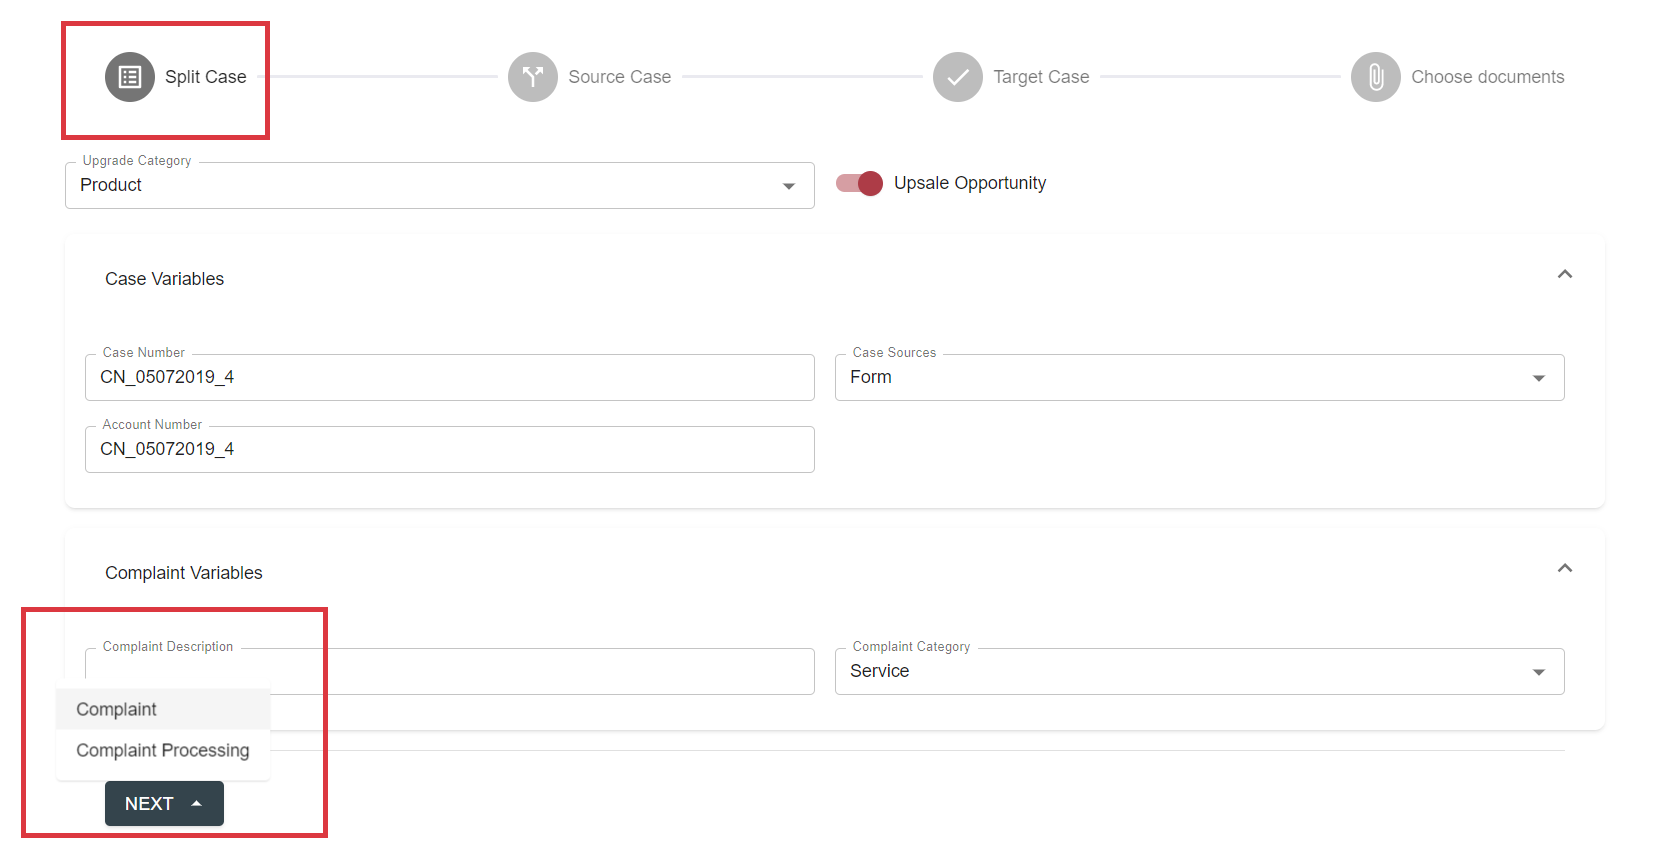
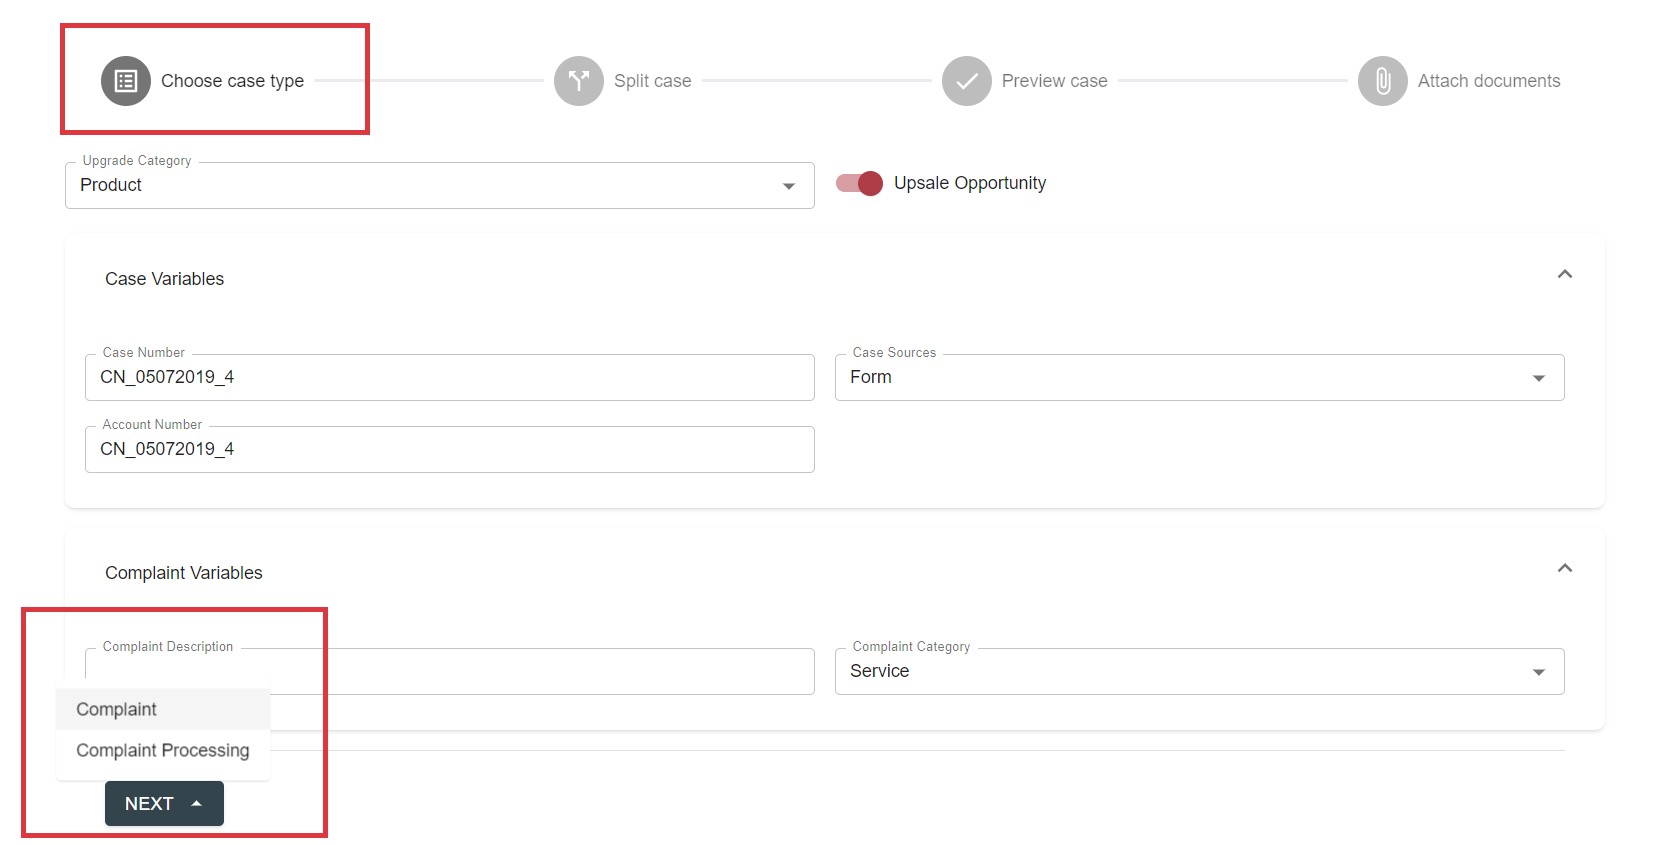
U7-3305 Split Case Feature documentation.

diff --git a/_docs/unity/features/case-management/split-case.md b/_docs/unity/features/case-management/split-case.md
@@ -6,7 +6,7 @@ category: Unity 7
 
 # Description
 
-Split Case is a feature to create a case that reuses data from an existing case. The new case can be the same type as the original case or it can be a different case type.
+Split Case is a feature to create a case that reuses data from an existing case. The new case can be the same type as the original case, or it can be a different case type.
 
 Unity supports IBM Case Manager Split Case feature via Unity ICM over UCM Data Provider.
 
@@ -18,18 +18,18 @@ Split Case feature in React UI is implemented as a grid action available for Cas
 
 Once selected, the action will be executed as a wizard with several steps:
 
-- The first step is a Split Case where selected case is opened for a preview. 
+- The first step is Choose Case Type form where selected case is opened for a preview. 
 If more than one target case types available from the [configuration](../../configuration/actions/split-case.md), the list of target case types will be shown:
 
 ![step1](split-case/images/react-ui-image2.png)          
 
-- Next step is a Source Case screen. It contains data from selected case in editable form where users can update values if needed or leave original data:
+- Next step is a Split Case screen. It contains data from selected case in editable form where users can update values if needed or leave original data:
 
 ![step2](split-case/images/react-ui-image3.png)
 
 By selecting Next button in this screen, user actually triggers Case Split action execution in a backend system (i.e. IBM ICM).
 
-- Upon successful completion the wizard opens next step Target Case with a preview form.
+- Upon successful completion the wizard opens next step Preview Case with a preview form.
 
 - Forth optional step is a screen where user is able to choose documents from source case and, by selecting 'Attach' button, link these documents with target case as well.
 
